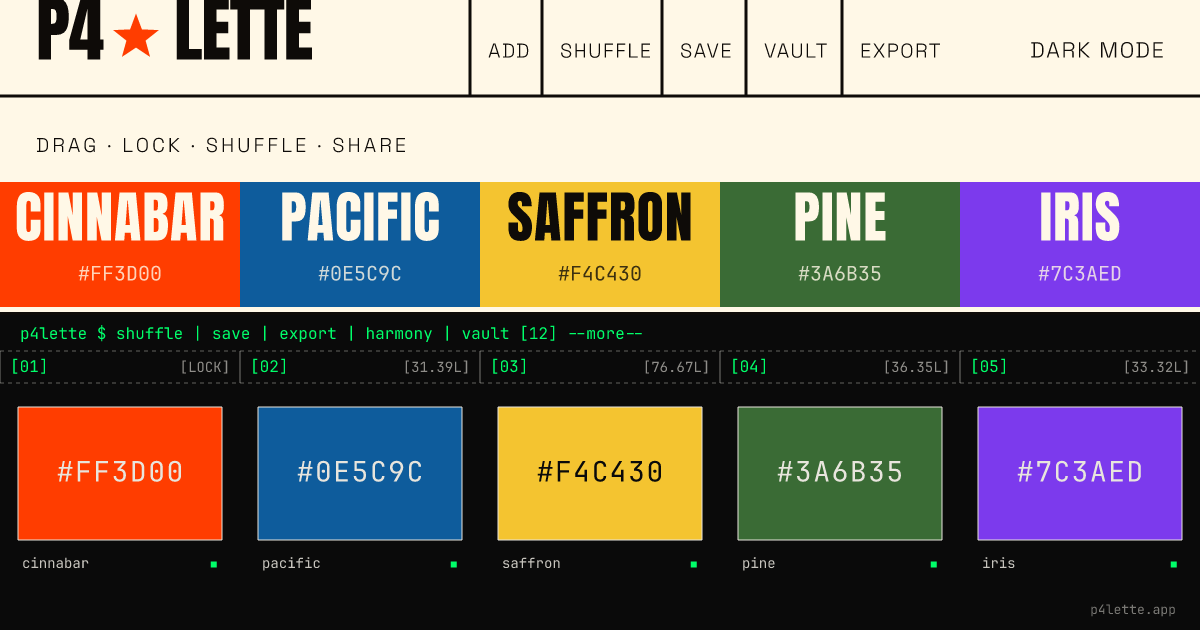
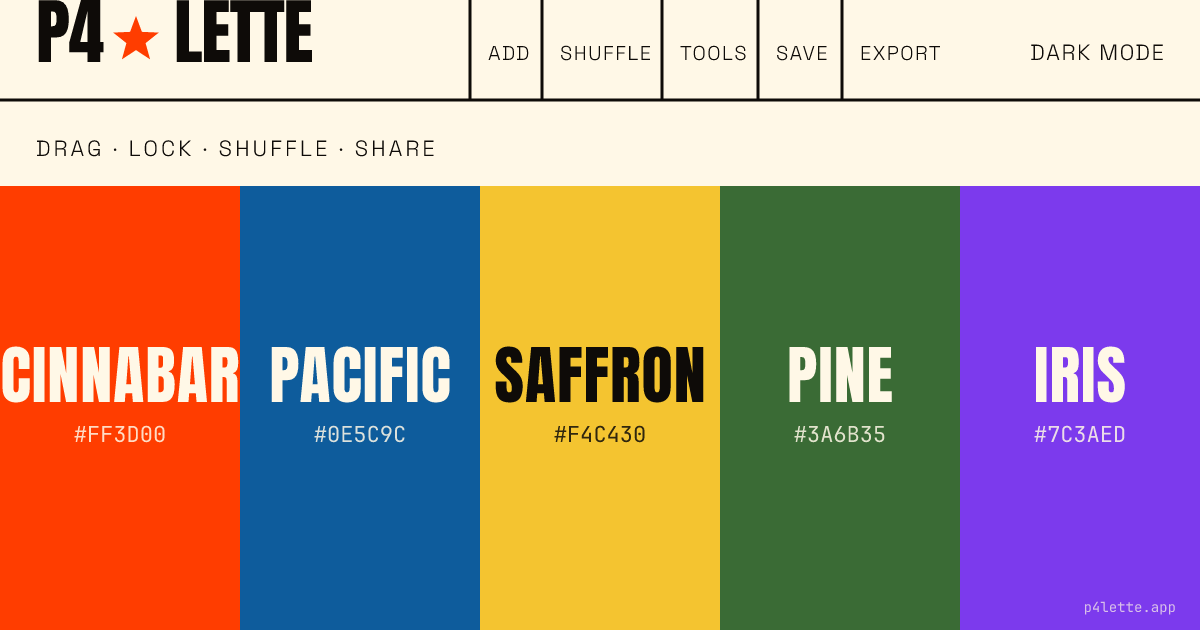
chore(og): regenerate the OG image — poster skin only, drop the terminal half
scripts/generate-og.mjs drew a poster card in the top half and the long-gone
"terminal" skin in the bottom half. It now draws one full-bleed poster card:
wordmark + nav strip (ADD / SHUFFLE / TOOLS / SAVE / EXPORT — the stale VAULT
label is gone), the DRAG · LOCK · SHUFFLE · SHARE tagline, and the five-colour
swatch row (name in Anton, hex in JetBrains Mono) filling the rest, with a
p4lette.app corner. Regenerated public/og.png. index.html: refreshed the stale
og:image:alt and dropped the unused VT323 webfont (a leftover of the terminal
skin). SPEC index.md vestigial note updated.

diff --git a/index.html b/index.html
@@ -20,7 +20,7 @@
     <meta property="og:image:height" content="630" />
     <meta
       property="og:image:alt"
-      content="P4LETTE shown in two skins — a poster-style swatch grid above a terminal-style monospace grid."
+      content="P4LETTE — a poster-style swatch grid: five named colours with hex codes under the wordmark and nav bar."
     />
 
     <meta name="twitter:card" content="summary_large_image" />
@@ -49,7 +49,7 @@
     <link rel="preconnect" href="https://fonts.googleapis.com" />
     <link rel="preconnect" href="https://fonts.gstatic.com" crossorigin />
     <link
-      href="https://fonts.googleapis.com/css2?family=Anton&family=Space+Grotesk:wght@400;500;600;700&family=JetBrains+Mono:wght@400;500;700&family=VT323&display=swap"
+      href="https://fonts.googleapis.com/css2?family=Anton&family=Space+Grotesk:wght@400;500;600;700&family=JetBrains+Mono:wght@400;500;700&display=swap"
       rel="stylesheet"
     />
     <style>

diff --git a/SPEC/CURRENT/index.md b/SPEC/CURRENT/index.md
@@ -24,7 +24,7 @@ Entry point for the SPEC. Repo-at-a-glance, layout, persistence surfaces, cross-
   - **Tests are colocated** (`src/**/X.test.ts(x)`), not in a `tests/`/`__tests__/` mirror tree. This is the project rule and deliberately overrides the general "tests in mirror modules" convention.
   - `tsconfig.json`: `strict`, `noEmit`, `noFallthroughCasesInSwitch` (reducer/`formatColor`/`parseColor` switches are exhaustive, no `default`), `isolatedModules`, `moduleResolution: "bundler"`, `jsx: "react-jsx"`, `types: ["vite/client"]`. `package.json` `overrides` pins `@types/react`/`@types/react-dom` to `^18.3.x` so React-18 typings survive newer tooling.
   - **Branching**: feature branches off `dev`; PRs target `dev`. Conventional commits. (The GitHub default branch differs — releasing `dev` onward is the maintainer's call.)
-  - **Vestigial / unused** (don't mistake for live surface): a "terminal" skin exists only as art inside `scripts/generate-og.mjs` (and stale README copy) — there is no terminal skin in `src/`. `src/types/Colors.ts` exports `Colors`/`ColorProperty` that nothing imports. `useViewport().isLandscape` has no consumer. `exportVisible` / `setExportVisible` exist on the context but `PosterSkin` manages export visibility with its own local `showExport`.
+  - **Vestigial / unused** (don't mistake for live surface): there was a "terminal" skin once — it's gone (no `src/` code, and `scripts/generate-og.mjs` no longer draws it; only stale README copy still mentions it). `src/types/Colors.ts` exports `Colors`/`ColorProperty` that nothing imports. `useViewport().isLandscape` has no consumer. `exportVisible` / `setExportVisible` exist on the context but `PosterSkin` manages export visibility with its own local `showExport`.
   - `build/`, `handoff/`, `scripts/.fonts/` are gitignored local artifacts, not source.
 - **SPEC workflow** — opening a plan: write the post-plan state into `SPEC/TARGET/<subsystem>.md` first. Shipping it: sync `SPEC/CURRENT/<subsystem>.md` to match `TARGET/` **in the same commit as the implementation**. Divergence between the trees = work in flight. `.claude/.spec-enabled` (empty marker) opts this repo into the convention. **Adding / renaming / removing a TOOLS-tray tool** is one line in `src/skins/poster/tools/index.ts` (`TRAY_SECTIONS`) — and in SPEC, one new bullet + one new key in `spa.md`'s `PosterToolsTray.sections`, plus (if a new `functions/*` module backs it) one new `<module> --> ttray` edge in `color.md` and a `Consumed by PosterToolsTray (XBody: …)` line in that module's section. Keep symbol-level imports in the `functions/*` "Consumed by" lines — don't re-enumerate them in the `PosterToolsTray` bullet (that was the recurring merge-conflict magnet).
 
@@ -135,7 +135,7 @@ Entry point for the SPEC. Repo-at-a-glance, layout, persistence surfaces, cross-
     "testsColocated": "src/**/X.test.ts(x) — overrides the 'mirror modules' convention",
     "branching": "feature branches off dev; PRs target dev; conventional commits",
     "vestigial": [
-      "terminal skin (only OG art in scripts/generate-og.mjs)",
+      "terminal skin — removed (no src/ code; OG script no longer draws it; README copy stale)",
       "src/types/Colors.ts Colors/ColorProperty unused",
       "useViewport().isLandscape unused",
       "context exportVisible/setExportVisible unused by UI"

diff --git a/SPEC/TARGET/index.md b/SPEC/TARGET/index.md
@@ -24,7 +24,7 @@ Entry point for the SPEC. Repo-at-a-glance, layout, persistence surfaces, cross-
   - **Tests are colocated** (`src/**/X.test.ts(x)`), not in a `tests/`/`__tests__/` mirror tree. This is the project rule and deliberately overrides the general "tests in mirror modules" convention.
   - `tsconfig.json`: `strict`, `noEmit`, `noFallthroughCasesInSwitch` (reducer/`formatColor`/`parseColor` switches are exhaustive, no `default`), `isolatedModules`, `moduleResolution: "bundler"`, `jsx: "react-jsx"`, `types: ["vite/client"]`. `package.json` `overrides` pins `@types/react`/`@types/react-dom` to `^18.3.x` so React-18 typings survive newer tooling.
   - **Branching**: feature branches off `dev`; PRs target `dev`. Conventional commits. (The GitHub default branch differs — releasing `dev` onward is the maintainer's call.)
-  - **Vestigial / unused** (don't mistake for live surface): a "terminal" skin exists only as art inside `scripts/generate-og.mjs` (and stale README copy) — there is no terminal skin in `src/`. `src/types/Colors.ts` exports `Colors`/`ColorProperty` that nothing imports. `useViewport().isLandscape` has no consumer. `exportVisible` / `setExportVisible` exist on the context but `PosterSkin` manages export visibility with its own local `showExport`.
+  - **Vestigial / unused** (don't mistake for live surface): there was a "terminal" skin once — it's gone (no `src/` code, and `scripts/generate-og.mjs` no longer draws it; only stale README copy still mentions it). `src/types/Colors.ts` exports `Colors`/`ColorProperty` that nothing imports. `useViewport().isLandscape` has no consumer. `exportVisible` / `setExportVisible` exist on the context but `PosterSkin` manages export visibility with its own local `showExport`.
   - `build/`, `handoff/`, `scripts/.fonts/` are gitignored local artifacts, not source.
 - **SPEC workflow** — opening a plan: write the post-plan state into `SPEC/TARGET/<subsystem>.md` first. Shipping it: sync `SPEC/CURRENT/<subsystem>.md` to match `TARGET/` **in the same commit as the implementation**. Divergence between the trees = work in flight. `.claude/.spec-enabled` (empty marker) opts this repo into the convention. **Adding / renaming / removing a TOOLS-tray tool** is one line in `src/skins/poster/tools/index.ts` (`TRAY_SECTIONS`) — and in SPEC, one new bullet + one new key in `spa.md`'s `PosterToolsTray.sections`, plus (if a new `functions/*` module backs it) one new `<module> --> ttray` edge in `color.md` and a `Consumed by PosterToolsTray (XBody: …)` line in that module's section. Keep symbol-level imports in the `functions/*` "Consumed by" lines — don't re-enumerate them in the `PosterToolsTray` bullet (that was the recurring merge-conflict magnet).
 
@@ -135,7 +135,7 @@ Entry point for the SPEC. Repo-at-a-glance, layout, persistence surfaces, cross-
     "testsColocated": "src/**/X.test.ts(x) — overrides the 'mirror modules' convention",
     "branching": "feature branches off dev; PRs target dev; conventional commits",
     "vestigial": [
-      "terminal skin (only OG art in scripts/generate-og.mjs)",
+      "terminal skin — removed (no src/ code; OG script no longer draws it; README copy stale)",
       "src/types/Colors.ts Colors/ColorProperty unused",
       "useViewport().isLandscape unused",
       "context exportVisible/setExportVisible unused by UI"
